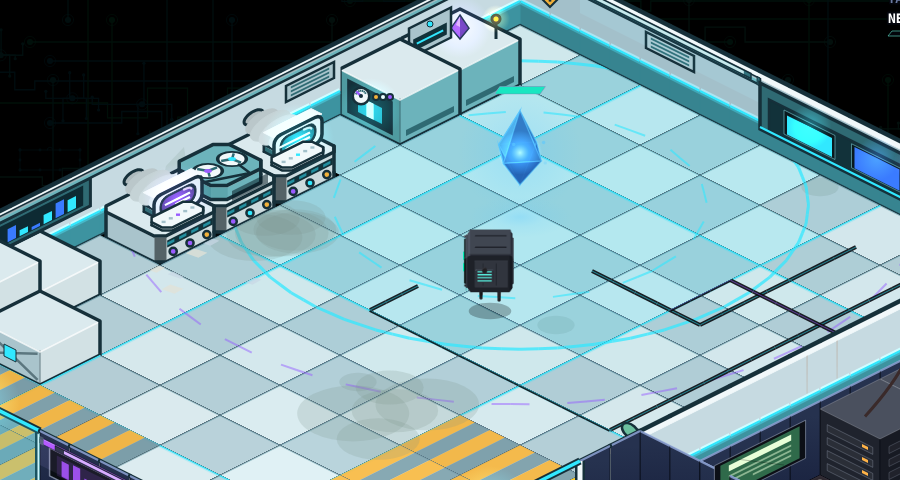
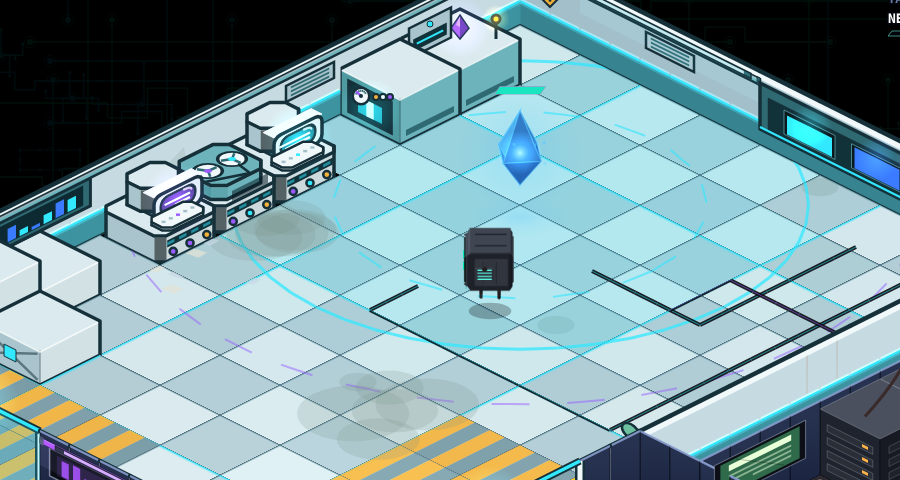
Crystal lab style: monitor backs are plain chunky rounded boxes
The CRT hump looked off-style; the monitor back is now a chunky rounded-corner box like the cabinet. Build 2026-10-24d.

Claude-Session: https://claude.ai/code/session_0115DZYYhipQqSk6LHvQcEfz

diff --git a/game.html b/game.html
@@ -1771,12 +1771,12 @@ function _showError(msg) {
 // Script files that failed to download. A missing file raises no error of its
 // own — only the "Can't find variable" from whatever needed it — so the load
 // failure is caught here, on its way down (capture phase).
-// THE BUILD. Every script URL below carries ?v=2026-10-24c, so a new deploy
+// THE BUILD. Every script URL below carries ?v=2026-10-24d, so a new deploy
 // fetches a matching set: REPORTED, an iPad ran the new js/indexart.js against
 // an old cached js/config.js ("Attempted to assign to readonly property").
 // Change this, the ?v= on every script tag and BUILD_VERSION in js/config.js
 // together (tests/boot.js checks they agree).
-window.__PAGE_BUILD = "2026-10-24c";
+window.__PAGE_BUILD = "2026-10-24d";
 window.__bootFailed = [];
 window.addEventListener("error", function (e) {
     var t = e && e.target;
@@ -1812,77 +1812,77 @@ if (!CanvasRenderingContext2D.prototype.roundRect) {
 </script>
 
 <!-- Game scripts — load order matters (globals first, logic last) -->
-<script src="js/config.js?v=2026-10-24c"></script>
-<script src="js/icons.js?v=2026-10-24c"></script>
-<script src="js/uikit.js?v=2026-10-24c"></script>
-<script src="js/rng.js?v=2026-10-24c"></script>
-<script src="js/traits.js?v=2026-10-24c"></script>
-<script src="js/elements.js?v=2026-10-24c"></script>
-<script src="js/combat.js?v=2026-10-24c"></script>
-<script src="js/species.js?v=2026-10-24c"></script>
-<script src="js/levels.js?v=2026-10-24c"></script>
-<script src="js/status.js?v=2026-10-24c"></script>
-<script src="js/predator_randomizer.js?v=2026-10-24c"></script>
-<script src="js/mass.js?v=2026-10-24c"></script>
-<script src="js/infest.js?v=2026-10-24c"></script>
-<script src="js/power.js?v=2026-10-24c"></script>
-<script src="js/save.js?v=2026-10-24c"></script>
-<script src="js/camp.js?v=2026-10-24c"></script>
-<script src="js/wavedata.js?v=2026-10-24c"></script>
-<script src="js/helpers.js?v=2026-10-24c"></script>
-<script src="js/predator.js?v=2026-10-24c"></script>
-<script src="js/abilities.js?v=2026-10-24c"></script>
-<script src="js/world.js?v=2026-10-24c"></script>
-<script src="js/commands.js?v=2026-10-24c"></script>
-<script src="js/npc.js?v=2026-10-24c"></script>
-<script src="js/codex.js?v=2026-10-24c"></script>
-<script src="js/draw.js?v=2026-10-24c"></script>
-<script src="js/beetle3d.js?v=2026-10-24c"></script>
-<script src="js/bugs3d.js?v=2026-10-24c"></script>
-<script src="js/ui.js?v=2026-10-24c"></script>
-<script src="js/waves.js?v=2026-10-24c"></script>
-<script src="js/drops.js?v=2026-10-24c"></script>
-<script src="js/clone.js?v=2026-10-24c"></script>
-<script src="js/clonework.js?v=2026-10-24c"></script>
-<script src="js/broods.js?v=2026-10-24c"></script>
-<script src="js/raids.js?v=2026-10-24c"></script>
-<script src="js/ultra.js?v=2026-10-24c"></script>
-<script src="js/formations.js?v=2026-10-24c"></script>
-<script src="js/breakout.js?v=2026-10-24c"></script>
-<script src="js/nightraids.js?v=2026-10-24c"></script>
-<script src="js/bonds.js?v=2026-10-24c"></script>
-<script src="js/autoplay.js?v=2026-10-24c"></script>
-<script src="js/indexart.js?v=2026-10-24c"></script>
-<script src="js/modules.js?v=2026-10-24c"></script>
-<script src="js/shieldcells.js?v=2026-10-24c"></script>
-<script src="js/evolution.js?v=2026-10-24c"></script>
-<script src="js/hdsprites.js?v=2026-10-24c"></script>
-<script src="js/firebombs.js?v=2026-10-24c"></script>
-<script src="js/wallunit.js?v=2026-10-24c"></script>
-<script src="js/labwall.js?v=2026-10-24c"></script>
-<script src="js/moves.js?v=2026-10-24c"></script>
-<script src="js/squads.js?v=2026-10-24c"></script>
-<script src="js/recruitcrystal.js?v=2026-10-24c"></script>
-<script src="js/buildmenu.js?v=2026-10-24c"></script>
-<script src="js/hudgems.js?v=2026-10-24c"></script>
-<script src="js/nethud.js?v=2026-10-24c"></script>
-<script src="js/commandcenter.js?v=2026-10-24c"></script>
-<script src="js/unitinfo.js?v=2026-10-24c"></script>
-<script src="js/infodex.js?v=2026-10-24c"></script>
-<script src="js/facilitymap.js?v=2026-10-24c"></script>
-<script src="js/facility.js?v=2026-10-24c"></script>
-<script src="js/facilityplay.js?v=2026-10-24c"></script>
-<script src="js/facilitydecor.js?v=2026-10-24c"></script>
-<script src="js/facilitystyle.js?v=2026-10-24c"></script>
-<script src="js/zones.js?v=2026-10-24c"></script>
-<script src="js/kits.js?v=2026-10-24c"></script>
-<script src="js/kitui.js?v=2026-10-24c"></script>
-<script src="js/toolbox.js?v=2026-10-24c"></script>
-<script src="js/mixtool.js?v=2026-10-24c"></script>
-<script src="js/radialmenu.js?v=2026-10-24c"></script>
-<script src="js/input.js?v=2026-10-24c"></script>
-<script src="js/game.js?v=2026-10-24c"></script>
-<script src="js/dev.js?v=2026-10-24c"></script>
+<script src="js/config.js?v=2026-10-24d"></script>
+<script src="js/icons.js?v=2026-10-24d"></script>
+<script src="js/uikit.js?v=2026-10-24d"></script>
+<script src="js/rng.js?v=2026-10-24d"></script>
+<script src="js/traits.js?v=2026-10-24d"></script>
+<script src="js/elements.js?v=2026-10-24d"></script>
+<script src="js/combat.js?v=2026-10-24d"></script>
+<script src="js/species.js?v=2026-10-24d"></script>
+<script src="js/levels.js?v=2026-10-24d"></script>
+<script src="js/status.js?v=2026-10-24d"></script>
+<script src="js/predator_randomizer.js?v=2026-10-24d"></script>
+<script src="js/mass.js?v=2026-10-24d"></script>
+<script src="js/infest.js?v=2026-10-24d"></script>
+<script src="js/power.js?v=2026-10-24d"></script>
+<script src="js/save.js?v=2026-10-24d"></script>
+<script src="js/camp.js?v=2026-10-24d"></script>
+<script src="js/wavedata.js?v=2026-10-24d"></script>
+<script src="js/helpers.js?v=2026-10-24d"></script>
+<script src="js/predator.js?v=2026-10-24d"></script>
+<script src="js/abilities.js?v=2026-10-24d"></script>
+<script src="js/world.js?v=2026-10-24d"></script>
+<script src="js/commands.js?v=2026-10-24d"></script>
+<script src="js/npc.js?v=2026-10-24d"></script>
+<script src="js/codex.js?v=2026-10-24d"></script>
+<script src="js/draw.js?v=2026-10-24d"></script>
+<script src="js/beetle3d.js?v=2026-10-24d"></script>
+<script src="js/bugs3d.js?v=2026-10-24d"></script>
+<script src="js/ui.js?v=2026-10-24d"></script>
+<script src="js/waves.js?v=2026-10-24d"></script>
+<script src="js/drops.js?v=2026-10-24d"></script>
+<script src="js/clone.js?v=2026-10-24d"></script>
+<script src="js/clonework.js?v=2026-10-24d"></script>
+<script src="js/broods.js?v=2026-10-24d"></script>
+<script src="js/raids.js?v=2026-10-24d"></script>
+<script src="js/ultra.js?v=2026-10-24d"></script>
+<script src="js/formations.js?v=2026-10-24d"></script>
+<script src="js/breakout.js?v=2026-10-24d"></script>
+<script src="js/nightraids.js?v=2026-10-24d"></script>
+<script src="js/bonds.js?v=2026-10-24d"></script>
+<script src="js/autoplay.js?v=2026-10-24d"></script>
+<script src="js/indexart.js?v=2026-10-24d"></script>
+<script src="js/modules.js?v=2026-10-24d"></script>
+<script src="js/shieldcells.js?v=2026-10-24d"></script>
+<script src="js/evolution.js?v=2026-10-24d"></script>
+<script src="js/hdsprites.js?v=2026-10-24d"></script>
+<script src="js/firebombs.js?v=2026-10-24d"></script>
+<script src="js/wallunit.js?v=2026-10-24d"></script>
+<script src="js/labwall.js?v=2026-10-24d"></script>
+<script src="js/moves.js?v=2026-10-24d"></script>
+<script src="js/squads.js?v=2026-10-24d"></script>
+<script src="js/recruitcrystal.js?v=2026-10-24d"></script>
+<script src="js/buildmenu.js?v=2026-10-24d"></script>
+<script src="js/hudgems.js?v=2026-10-24d"></script>
+<script src="js/nethud.js?v=2026-10-24d"></script>
+<script src="js/commandcenter.js?v=2026-10-24d"></script>
+<script src="js/unitinfo.js?v=2026-10-24d"></script>
+<script src="js/infodex.js?v=2026-10-24d"></script>
+<script src="js/facilitymap.js?v=2026-10-24d"></script>
+<script src="js/facility.js?v=2026-10-24d"></script>
+<script src="js/facilityplay.js?v=2026-10-24d"></script>
+<script src="js/facilitydecor.js?v=2026-10-24d"></script>
+<script src="js/facilitystyle.js?v=2026-10-24d"></script>
+<script src="js/zones.js?v=2026-10-24d"></script>
+<script src="js/kits.js?v=2026-10-24d"></script>
+<script src="js/kitui.js?v=2026-10-24d"></script>
+<script src="js/toolbox.js?v=2026-10-24d"></script>
+<script src="js/mixtool.js?v=2026-10-24d"></script>
+<script src="js/radialmenu.js?v=2026-10-24d"></script>
+<script src="js/input.js?v=2026-10-24d"></script>
+<script src="js/game.js?v=2026-10-24d"></script>
+<script src="js/dev.js?v=2026-10-24d"></script>
 <script>
 // ── BOOT CHECK ────────────────────────────────────────────
 // Every file above must have arrived and run before init.js starts the game.
@@ -1935,7 +1935,7 @@ if (!CanvasRenderingContext2D.prototype.roundRect) {
     document.body.appendChild(d);
 })();
 </script>
-<script src="js/init.js?v=2026-10-24c"></script>
+<script src="js/init.js?v=2026-10-24d"></script>
 
 </body>
 </html>

diff --git a/tests/facilityplay.js b/tests/facilityplay.js
@@ -241,7 +241,7 @@ function measure() {
         same(draw.err, null, 'a styled item threw'); ok(draw.n > 60, 'styled items drawn: ' + draw.n);
         const comp = J(`(function(){ const cs = _fp.items.filter(i => i.fp === 'prop' && i.kind === 'console' && i.room === 'crystal_chamber'); return { n: cs.length, x: Array.from(new Set(cs.map(i => i.x))), ys: cs.map(i => i.y).sort() }; })()`);
         same(comp.n, 3, 'the console bank is three units'); same(comp.x.length, 1, 'the bank is in a line'); ok(comp.x[0] <= 12, 'the bank faces the camera: it stands against the west wall, not the east wall that hides it: x ' + comp.x[0]);
-        ok(/_fpRBox/.test(src) && /_fpRRectPts/.test(src) && /createRadialGradient\(cs\[0\]/.test(src) && /the tube: smooth round slices/.test(src), 'the rounded cabinet corners, the CRT tube or the curved screen are missing'); ok(/_fpStyleComputer/.test(src) && /_fpStyleReel/.test(src) && /lineJoin = "round"/.test(src) && /w = lw \|\| 3/.test(src), 'the computers, reels or bold outlines are missing');
+        ok(/_fpRBox/.test(src) && /_fpRRectPts/.test(src) && /createRadialGradient\(cs\[0\]/.test(src) && /the back: a plain chunky box with rounded corners/.test(src), 'the rounded cabinet corners, the CRT back or the rounded screen are missing'); ok(/_fpStyleComputer/.test(src) && /_fpStyleReel/.test(src) && /lineJoin = "round"/.test(src) && /w = lw \|\| 3/.test(src), 'the computers, reels or bold outlines are missing');
         same(J("FACILITY_MAP.rooms.length"), 14, 'rooms'); same(J("FACILITY_MAP.openings.length"), 13, 'openings'); ok(!/FACILITY_MAP|facilityCanStep|facilityWalkable|facilityMove/.test(src), 'the style reads or changes the map or the movement');
     });
     check('the catwalks are scaffolding: every wall piece of the catwalks is an open deck edge with a rail (and legs where the arena\'s frame is not), the arena\'s railing wall is an open steel frame, and nothing about them is a solid wall', () => {

diff --git a/js/facilitystyle.js b/js/facilitystyle.js
@@ -187,8 +187,7 @@ function _fpStyleComputer(it) {
     } else {         // the CRT: a rounded tube that swells behind the bezel and tapers away, a rounded bezel, a curved glass screen
         const zc = 44.5, wf = 0.3, wb = 0.12, pul = 0.8 + 0.2 * Math.sin(f * 0.05 + seed);
         rbox(-0.18, 0.18, -0.14, 0.14, 26, 33, FP_PAL.tealDark, FP_PAL.tealDark, FP_PAL.teal, 0.05, 2.5);   // the neck
-        const slice = (w, ru, rz, col, edge, lw) => { const poly = []; for (let k = 0; k < 28; k++) { const th = k / 28 * 6.2832; poly.push(pt(Math.cos(th) * ru, w, zc + Math.sin(th) * rz)); } _fpQuad(poly, col, edge, lw); };
-        const N = 5; for (let i = 0; i < N; i++) { const t = i / (N - 1), w = -0.44 + t * (wb + 0.44), bulge = Math.sin(Math.min(1, t * 1.15) * 3.1416 * 0.6 + 0.25), ru = 0.1 + 0.24 * bulge, rz = 4 + 8 * bulge, col = _fpShade(FP_PAL.caseLit, 0.8 + 0.2 * t); slice(w, ru, rz, col, i === 0 ? FP_PAL.ink : col, i === 0 ? 3 : 1); }   // the tube: smooth round slices, back to front, one outline round its back
+        rbox(-0.32, 0.32, -0.36, wb, 33, 56, FP_PAL.caseLit, FP_PAL.case, _fpShade(FP_PAL.caseLit, 0.93), 0.13, 3.5);   // the back: a plain chunky box with rounded corners, like the cabinet
         const top = pt(0, wb, 59), tl = pt(-0.4, wb, 58), tr = pt(0.4, wb, 58), fl = pt(-0.4, wf, 58), fr = pt(0.4, wf, 58);
         _fpQuad([tl, tr, fr, fl], FP_PAL.cap, FP_PAL.cap, 1);   // the thin top of the bezel slab
         const bez = _fpRRectPts(pt, -0.4, 0.4, 31, 58, 0.11, 7, wf); _fpQuad(bez, FP_PAL.caseLit, FP_PAL.ink, 3.5);                                   // the bezel: a rounded plate

diff --git a/js/config.js b/js/config.js
@@ -4,7 +4,7 @@
 
 // The build this file belongs to — the same as window.__PAGE_BUILD and the
 // ?v= on every script tag in game.html (the boot check compares them).
-const BUILD_VERSION = "2026-10-24c";
+const BUILD_VERSION = "2026-10-24d";
 
 // ── GLOBAL ERROR DISPLAY ──────────────────────────────────
 // Lives in game.html (_showError), before any file loads. This file used to

diff --git a/docs/STYLE-CRYSTAL-LAB.md b/docs/STYLE-CRYSTAL-LAB.md
@@ -25,7 +25,7 @@ Saturated colour is for crystal energy and things you use; everything else is a 
 ## Rules
 
 - **Shapes and outlines (refined; reference Dexter's Laboratory and The Powerpuff Girls).** Chunky boxes and cylinders: a lit top, a lit +x side, a darker +y side, a white shine along the lit top edges, a flat toon shadow on the floor. One BOLD ink outline (3-3.5 px, round joins) round the silhouette of every solid, wall top and post; the faces inside a solid are separated by value, never by outlines, and there are none between adjacent wall pieces.
-- **Computers.** 3-D equipment, not flat panels: a cabinet with big knobs and lamps, a CRT monitor with a rounded tube that swells behind the bezel and tapers away, a rounded bezel plate and a curved glass screen (bright in the middle, dark at the rim, with a curved shine), cabinets and drive blocks with rounded vertical corners, a keyboard slab, and a tape drive with two turning reels. The Crystal Chamber's console bank (three units) stands against the west wall facing into the room, where the camera can see their fronts (it used to be against the east wall, where the wall hid everything but the tops).
+- **Computers.** 3-D equipment, not flat panels: a cabinet with big knobs and lamps, a CRT monitor with a plain chunky rounded-corner box behind a rounded bezel plate and a flat rounded screen with one shine, cabinets and drive blocks with rounded vertical corners, a keyboard slab, and a tape drive with two turning reels. The Crystal Chamber's console bank (three units) stands against the west wall facing into the room, where the camera can see their fronts (it used to be against the east wall, where the wall hid everything but the tops).
 - **Walls.** Three bands (darker base, body, light cap); a neon seam where the base meets the body; a faint panel join every two tiles; a post at every room corner; an ink line along the top edge. Wear: a rare muted discoloration, a rare rust streak.
 - **Floors.** Pale two-tone tiles with fine seams; a neon seam on every fourth tile line; decals (rings, cables, stripes, stains) keep their place and are recoloured into the palette; stains are fainter.
 - **Light.** Emissive only on energy sources and interactive things (the crystal, power cells, generator core, screens, seams, door lintels). No reflections, no ambient occlusion, no texture noise.
